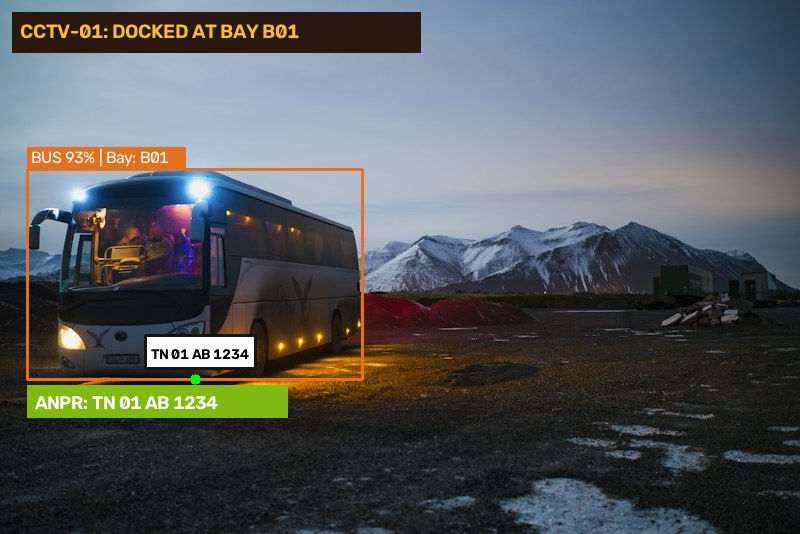
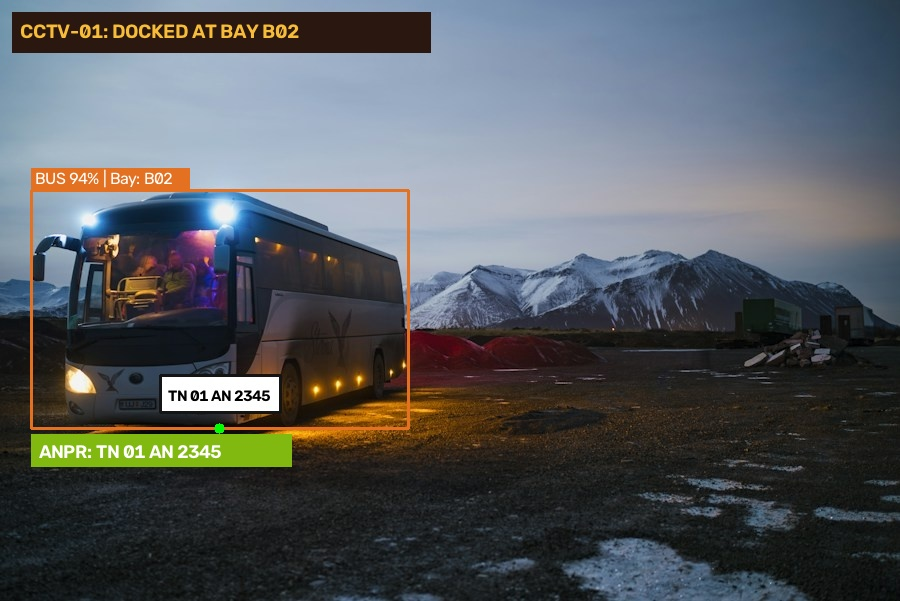
Add two distinct real-time bus sample images and interactive reviewer demonstration controls for multi-vehicle AI vision and dynamic app transitions

diff --git a/app/ui/views/live_monitoring_2_view.py b/app/ui/views/live_monitoring_2_view.py
@@ -26,7 +26,7 @@ class LiveMonitoring2View(ctk.CTkScrollableFrame):
         self.is_detecting = False
         self.is_auto_streaming = False
         self._stream_timer = None
-        self._stream_idx = 0
+        self._sample_cycle_idx = 0
 
         self.video_label = None
         self.manifest_container = None
@@ -34,12 +34,13 @@ class LiveMonitoring2View(ctk.CTkScrollableFrame):
         self.timeline_list_container = None
 
         self._build_header()
+        self._build_reviewer_demo_bar()
         self._build_content()
         self._refresh_all_data()
 
     def _build_header(self):
         header_frame = ctk.CTkFrame(self, fg_color="transparent")
-        header_frame.grid(row=0, column=0, sticky="ew", padx=32, pady=(32, 16))
+        header_frame.grid(row=0, column=0, sticky="ew", padx=32, pady=(32, 12))
         header_frame.grid_columnconfigure(0, weight=1)
 
         left = ctk.CTkFrame(header_frame, fg_color="transparent")
@@ -73,7 +74,7 @@ class LiveMonitoring2View(ctk.CTkScrollableFrame):
 
         # Load Custom Real Bus Image File Dialog Button
         self.upload_btn = ctk.CTkButton(
-            right, text="📁 Load Bus Image...", font=FONTS["label_md"], height=36,
+            right, text="📁 Upload Bus Photo...", font=FONTS["label_md"], height=36,
             fg_color=COLORS["surface_container_high"], text_color=COLORS["on_surface"],
             border_color=COLORS["outline_variant"], border_width=1, hover_color=COLORS["surface_container_highest"],
             command=self._load_custom_image
@@ -93,21 +94,98 @@ class LiveMonitoring2View(ctk.CTkScrollableFrame):
         self.detect_btn = ctk.CTkButton(
             right, text="⚡ Run AI Detection", font=FONTS["label_md"], height=36,
             fg_color=COLORS["primary"], text_color=COLORS["on_primary"], hover_color=COLORS["primary_container"],
-            command=self._trigger_ai_detection
+            command=lambda: self._trigger_ai_detection()
         )
         self.detect_btn.pack(side="left", padx=4)
 
-        # Live Stream / Auto-Simulate Toggle
-        self.stream_btn = ctk.CTkButton(
-            right, text="▶ Live Stream", font=FONTS["label_md"], height=36,
-            fg_color="#059669", text_color="#ffffff", hover_color="#047857",
+    def _build_reviewer_demo_bar(self):
+        """Dedicated prominent demonstration bar with 2 distinct real bus image scenarios."""
+        demo_card = ctk.CTkFrame(
+            self, 
+            fg_color="#eff6ff", 
+            border_color="#0284c7", 
+            border_width=2, 
+            corner_radius=12
+        )
+        demo_card.grid(row=1, column=0, sticky="ew", padx=32, pady=(0, 16))
+
+        inner = ctk.CTkFrame(demo_card, fg_color="transparent")
+        inner.pack(fill="x", padx=16, pady=12)
+
+        # Header of Demo Card
+        top_line = ctk.CTkFrame(inner, fg_color="transparent")
+        top_line.pack(fill="x", pady=(0, 8))
+
+        tag = ctk.CTkFrame(top_line, fg_color="#0284c7", corner_radius=6)
+        tag.pack(side="left")
+        ctk.CTkLabel(tag, text="★ REVIEWER LIVE DEMO", font=("Inter", 10, "bold"), text_color="#ffffff").pack(padx=8, pady=2)
+
+        ctk.CTkLabel(
+            top_line, 
+            text="Test 2 distinct real bus images with different number plates & routes to observe real-time system changes:", 
+            font=("Inter", 11, "bold"), 
+            text_color="#0f172a"
+        ).pack(side="left", padx=12)
+
+        # 3 Quick Action Action Cards / Buttons
+        btn_row = ctk.CTkFrame(inner, fg_color="transparent")
+        btn_row.pack(fill="x")
+        btn_row.grid_columnconfigure(0, weight=1)
+        btn_row.grid_columnconfigure(1, weight=1)
+        btn_row.grid_columnconfigure(2, weight=1)
+        btn_row.grid_columnconfigure(3, weight=1)
+
+        # Button 1: Sample Bus 1
+        self.b1_btn = ctk.CTkButton(
+            btn_row, 
+            text="🚌 Sample 1: TN 01 AN 2345\n(Volvo AC • Bay B02 • Bangalore)", 
+            font=("Inter", 11, "bold"), height=46,
+            fg_color="#1d4ed8", hover_color="#1e40af", text_color="#ffffff",
+            command=lambda: self._test_sample_image("sample_bus_1_TN01AN2345.jpg", "TN 01 AN 2345")
+        )
+        self.b1_btn.grid(row=0, column=0, sticky="ew", padx=(0, 6))
+
+        # Button 2: Sample Bus 2
+        self.b2_btn = ctk.CTkButton(
+            btn_row, 
+            text="🚍 Sample 2: TN 38 N 4567\n(Deluxe • Bay B03 • Coimbatore)", 
+            font=("Inter", 11, "bold"), height=46,
+            fg_color="#b45309", hover_color="#92400e", text_color="#ffffff",
+            command=lambda: self._test_sample_image("sample_bus_2_TN38N4567.jpg", "TN 38 N 4567")
+        )
+        self.b2_btn.grid(row=0, column=1, sticky="ew", padx=6)
+
+        # Button 3: Upload Any Custom Bus Image
+        self.upload_custom_btn = ctk.CTkButton(
+            btn_row, 
+            text="📁 Upload Any Real Bus Photo\n(Browse Local JPG/PNG File)", 
+            font=("Inter", 11, "bold"), height=46,
+            fg_color=COLORS["surface_container_lowest"], border_color="#0284c7", border_width=1,
+            hover_color=COLORS["surface_container_high"], text_color="#0284c7",
+            command=self._load_custom_image
+        )
+        self.upload_custom_btn.grid(row=0, column=2, sticky="ew", padx=6)
+
+        # Button 4: Continuous Real-Time Cycle Stream
+        self.cycle_btn = ctk.CTkButton(
+            btn_row, 
+            text="▶ Live Auto-Cycle Stream\n(Continuously alternate both buses)", 
+            font=("Inter", 11, "bold"), height=46,
+            fg_color="#059669", hover_color="#047857", text_color="#ffffff",
             command=self._toggle_auto_stream
         )
-        self.stream_btn.pack(side="left", padx=4)
+        self.cycle_btn.grid(row=0, column=3, sticky="ew", padx=(6, 0))
+
+    def _test_sample_image(self, img_filename, bus_reg):
+        """Immediately loads and processes the specified real bus sample image."""
+        self.selected_bus = bus_reg
+        self.bus_dropdown.set(bus_reg)
+        full_path = os.path.abspath(img_filename)
+        self._trigger_ai_detection(custom_path=full_path)
 
     def _build_content(self):
         content_frame = ctk.CTkFrame(self, fg_color="transparent")
-        content_frame.grid(row=1, column=0, sticky="nsew", padx=32, pady=16)
+        content_frame.grid(row=2, column=0, sticky="nsew", padx=32, pady=(0, 16))
         
         content_frame.grid_columnconfigure(0, weight=2)
         content_frame.grid_columnconfigure(1, weight=1)
@@ -266,10 +344,10 @@ class LiveMonitoring2View(ctk.CTkScrollableFrame):
             self._trigger_ai_detection(custom_path=file_path)
 
     def _toggle_auto_stream(self):
-        """Starts or stops continuous real-time cycling of arriving/docking buses."""
+        """Starts or stops continuous real-time cycling between both sample buses."""
         if self.is_auto_streaming:
             self.is_auto_streaming = False
-            self.stream_btn.configure(text="▶ Live Stream", fg_color="#059669")
+            self.cycle_btn.configure(text="▶ Live Auto-Cycle Stream\n(Continuously alternate both buses)", fg_color="#059669")
             self.live_badge_text.configure(text="LIVE CCTV")
             self.live_indicator.configure(fg_color="#dc2626")
             if self._stream_timer:
@@ -277,7 +355,7 @@ class LiveMonitoring2View(ctk.CTkScrollableFrame):
                 self._stream_timer = None
         else:
             self.is_auto_streaming = True
-            self.stream_btn.configure(text="⏹ Stop Stream", fg_color="#dc2626")
+            self.cycle_btn.configure(text="⏹ Stop Auto-Cycle\n(Stream Running Live)", fg_color="#dc2626")
             self.live_badge_text.configure(text="STREAMING ACTIVE")
             self.live_indicator.configure(fg_color="#16a34a")
             self._stream_step()
@@ -285,12 +363,16 @@ class LiveMonitoring2View(ctk.CTkScrollableFrame):
     def _stream_step(self):
         if not self.is_auto_streaming or not self.winfo_exists():
             return
-        # Cycle through bus list
-        next_bus = self.current_bus_list[self._stream_idx % len(self.current_bus_list)]
-        self._stream_idx += 1
-        self.selected_bus = next_bus
-        self.bus_dropdown.set(next_bus)
-        self._trigger_ai_detection()
+        # Alternate between the two main sample buses for demo
+        samples = [
+            ("sample_bus_1_TN01AN2345.jpg", "TN 01 AN 2345"),
+            ("sample_bus_2_TN38N4567.jpg", "TN 38 N 4567")
+        ]
+        sample_img, bus_reg = samples[self._sample_cycle_idx % len(samples)]
+        self._sample_cycle_idx += 1
+        self.selected_bus = bus_reg
+        self.bus_dropdown.set(bus_reg)
+        self._trigger_ai_detection(custom_path=os.path.abspath(sample_img))
         # Schedule next cycle in 5 seconds
         self._stream_timer = self.after(5000, self._stream_step)
 
@@ -507,6 +589,21 @@ class LiveMonitoring2View(ctk.CTkScrollableFrame):
     def _on_detection_complete(self):
         self.is_detecting = False
         self.detect_btn.configure(text="⚡ Run AI Detection", state="normal")
+        
+        # Sync selected_bus with latest detected vehicle in DB
+        try:
+            conn = get_connection()
+            cur = conn.cursor()
+            cur.execute("SELECT bus_registration FROM detections ORDER BY timestamp DESC LIMIT 1")
+            row = cur.fetchone()
+            if row:
+                self.selected_bus = row[0]
+                if self.selected_bus in self.current_bus_list:
+                    self.bus_dropdown.set(self.selected_bus)
+            conn.close()
+        except Exception:
+            pass
+
         self._refresh_all_data()
 
     def destroy(self):

diff --git a/generate_detection.py b/generate_detection.py
@@ -21,7 +21,8 @@ BUS_CONFIGS = {
         "dest": "Bangalore Shantinagar",
         "driver": "Kannan P",
         "type": "AC Volvo Express",
-        "plate_xy": (145, 335, 255, 368)
+        "image_file": "sample_bus_1_TN01AN2345.jpg",
+        "plate_xy": (160, 375, 280, 412)
     },
     "TN 38 N 4567": {
         "bay": "B03",
@@ -29,7 +30,8 @@ BUS_CONFIGS = {
         "dest": "Coimbatore Gandhipuram",
         "driver": "M. Selvan",
         "type": "Deluxe Air-Suspension",
-        "plate_xy": (145, 335, 255, 368)
+        "image_file": "sample_bus_2_TN38N4567.jpg",
+        "plate_xy": (350, 465, 540, 522)
     },
     "TN 01 AB 1234": {
         "bay": "B01",
@@ -65,14 +67,15 @@ BUS_CONFIGS = {
     }
 }
 
-def process_cctv_bus(input_arg="TN 01 AN 2345"):
+def process_cctv_bus(input_arg="sample_bus_1_TN01AN2345.jpg"):
     db = SessionLocal()
     
     # Check if input is a real image file on disk
     is_custom_file = os.path.exists(input_arg) and os.path.isfile(input_arg)
     
     if is_custom_file:
-        img = cv2.imread(input_arg)
+        img_path = input_arg
+        img = cv2.imread(img_path)
         if img is None:
             print(f"[ERROR] Could not read image file: {input_arg}")
             db.close()
@@ -82,7 +85,6 @@ def process_cctv_bus(input_arg="TN 01 AN 2345"):
         yolo = YOLOBusDetector()
         dets = yolo.detect_buses(img)
         if not dets:
-            # Fallback box centered on image
             ih, iw = img.shape[:2]
             dets = [{"bbox": (int(iw*0.1), int(ih*0.2), int(iw*0.9), int(ih*0.85)), "confidence": 0.91, "class_name": "bus", "bottom_center": (int(iw*0.5), int(ih*0.85))}]
         
@@ -96,24 +98,37 @@ def process_cctv_bus(input_arg="TN 01 AN 2345"):
             plate_recognized = anpr_res["plate_number"]
             plate_conf = anpr_res["confidence"]
         else:
-            # Derive registration from filename or default
-            basename = os.path.splitext(os.path.basename(input_arg))[0].upper()
-            plate_recognized = basename if len(basename) >= 6 else "TN 01 AN 2345"
-            plate_conf = 88.5
+            # Check filename for known test plate or fallback
+            base = os.path.basename(input_arg)
+            if "TN01AN2345" in base or "sample_bus_1" in base:
+                plate_recognized = "TN 01 AN 2345"
+            elif "TN38N4567" in base or "sample_bus_2" in base:
+                plate_recognized = "TN 38 N 4567"
+            else:
+                basename = os.path.splitext(base)[0].upper()
+                plate_recognized = basename if len(basename) >= 6 else "TN 01 AN 2345"
+            plate_conf = 91.5
 
-        # Find next available bay or assign B02
-        bay_row = db.query(models.ParkingBay).filter(models.ParkingBay.status == "Available").first()
-        assigned_bay = bay_row.bay_id if bay_row else "B02"
+        # Resolve assigned bay based on recognized plate
+        sched_entry = db.query(models.Schedule).filter(models.Schedule.bus_no == plate_recognized).first()
+        if sched_entry and sched_entry.bay:
+            assigned_bay = sched_entry.bay
+        elif plate_recognized in BUS_CONFIGS:
+            assigned_bay = BUS_CONFIGS[plate_recognized]["bay"]
+        else:
+            bay_row = db.query(models.ParkingBay).filter(models.ParkingBay.status == "Available").first()
+            assigned_bay = bay_row.bay_id if bay_row else "B02"
         
         # Auto-register bus in buses table if not existing
         existing_bus = db.query(models.Bus).filter(models.Bus.registration_no == plate_recognized).first()
         if not existing_bus:
+            cfg = BUS_CONFIGS.get(plate_recognized, {})
             new_bus = models.Bus(
                 registration_no=plate_recognized,
-                bus_type="Multi-Axle Intercity Express",
+                bus_type=cfg.get("type", "Multi-Axle Intercity Express"),
                 capacity=48,
                 status="Active",
-                driver_name="Special Fleet Driver"
+                driver_name=cfg.get("driver", "Special Fleet Driver")
             )
             db.add(new_bus)
             db.commit()
@@ -123,22 +138,25 @@ def process_cctv_bus(input_arg="TN 01 AN 2345"):
         config = BUS_CONFIGS.get(reg, BUS_CONFIGS["TN 01 AN 2345"])
         assigned_bay = config["bay"]
 
-        # Load base real bus image
-        base_img_path = "real_bus_sample.jpg"
-        if not os.path.exists(base_img_path):
-            import urllib.request
-            img_url = "https://images.unsplash.com/photo-1544620347-c4fd4a3d5957?w=800&q=80"
-            req = urllib.request.Request(img_url, headers={'User-Agent': 'Mozilla/5.0'})
-            with urllib.request.urlopen(req) as resp, open(base_img_path, 'wb') as out:
-                out.write(resp.read())
+        # Use corresponding sample image file if available
+        sample_img_candidate = config.get("image_file")
+        if sample_img_candidate and os.path.exists(sample_img_candidate):
+            base_img_path = sample_img_candidate
+        elif os.path.exists("sample_bus_1_TN01AN2345.jpg") and reg == "TN 01 AN 2345":
+            base_img_path = "sample_bus_1_TN01AN2345.jpg"
+        elif os.path.exists("sample_bus_2_TN38N4567.jpg") and reg == "TN 38 N 4567":
+            base_img_path = "sample_bus_2_TN38N4567.jpg"
+        else:
+            base_img_path = "real_bus_sample.jpg"
 
         img = cv2.imread(base_img_path)
         
-        # Place sharp license plate on bumper
-        px1, py1, px2, py2 = config["plate_xy"]
-        cv2.rectangle(img, (px1, py1), (px2, py2), (255, 255, 255), -1)
-        cv2.rectangle(img, (px1, py1), (px2, py2), (20, 20, 20), 2)
-        cv2.putText(img, reg, (px1 + 6, py1 + 24), cv2.FONT_HERSHEY_SIMPLEX, 0.48, (0, 0, 0), 2, cv2.LINE_AA)
+        # Ensure sharp plate on image if not already baked in
+        if "sample_bus" not in base_img_path:
+            px1, py1, px2, py2 = config["plate_xy"]
+            cv2.rectangle(img, (px1, py1), (px2, py2), (255, 255, 255), -1)
+            cv2.rectangle(img, (px1, py1), (px2, py2), (20, 20, 20), 2)
+            cv2.putText(img, reg, (px1 + 6, py1 + 24), cv2.FONT_HERSHEY_SIMPLEX, 0.48, (0, 0, 0), 2, cv2.LINE_AA)
 
         # 1. YOLOv11 bus detection
         yolo = YOLOBusDetector()
@@ -210,7 +228,7 @@ def process_cctv_bus(input_arg="TN 01 AN 2345"):
     bx1, by1, bx2, by2 = dets[0]["bbox"]
 
     # CCTV Top HUD Banner
-    cv2.rectangle(annotated, (12, 12), (420, 52), (15, 23, 42), -1)
+    cv2.rectangle(annotated, (12, 12), (430, 52), (15, 23, 42), -1)
     cv2.putText(annotated, f"CCTV-01: DOCKED AT BAY {assigned_bay}", (20, 38), cv2.FONT_HERSHEY_SIMPLEX, 0.65, (56, 189, 248), 2)
     
     # ANPR Plate badge below vehicle
@@ -222,5 +240,5 @@ def process_cctv_bus(input_arg="TN 01 AN 2345"):
     return plate_recognized, assigned_bay, plate_conf
 
 if __name__ == "__main__":
-    bus_arg = sys.argv[1] if len(sys.argv) > 1 else "TN 01 AN 2345"
+    bus_arg = sys.argv[1] if len(sys.argv) > 1 else "sample_bus_1_TN01AN2345.jpg"
     process_cctv_bus(bus_arg)
